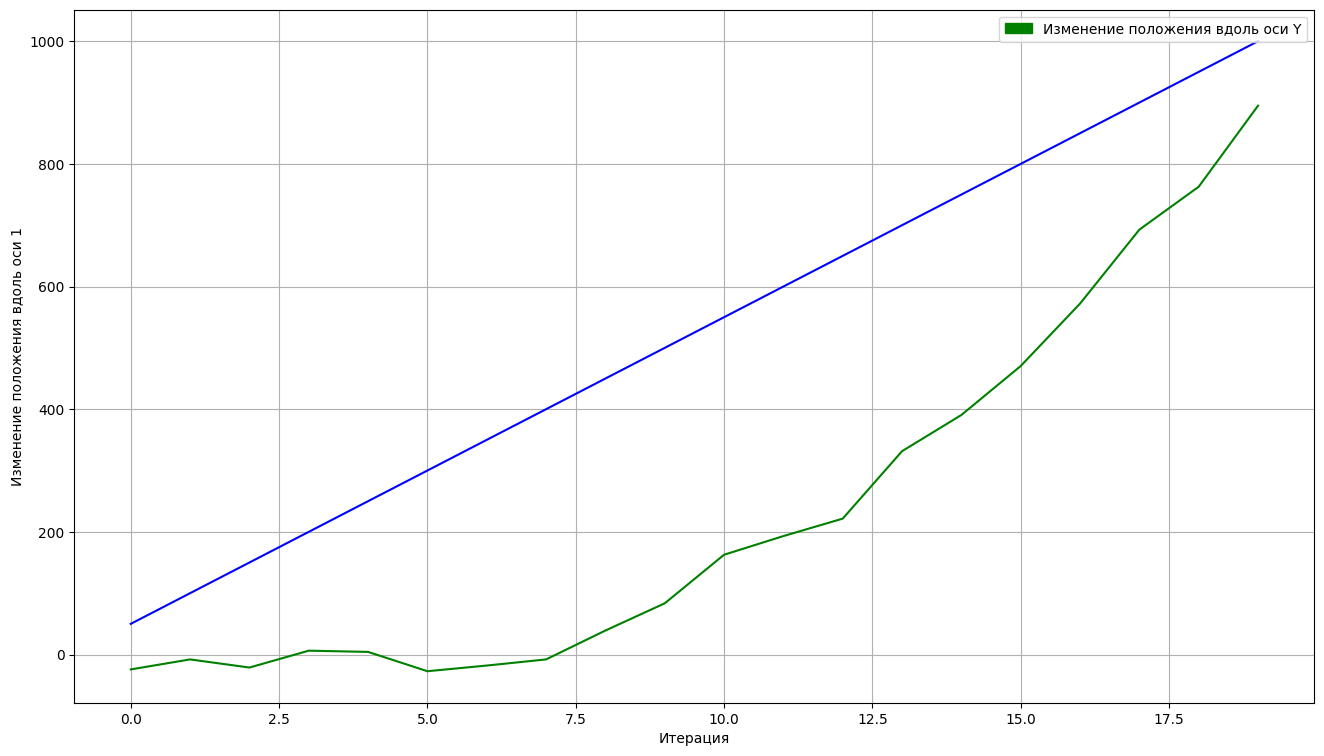
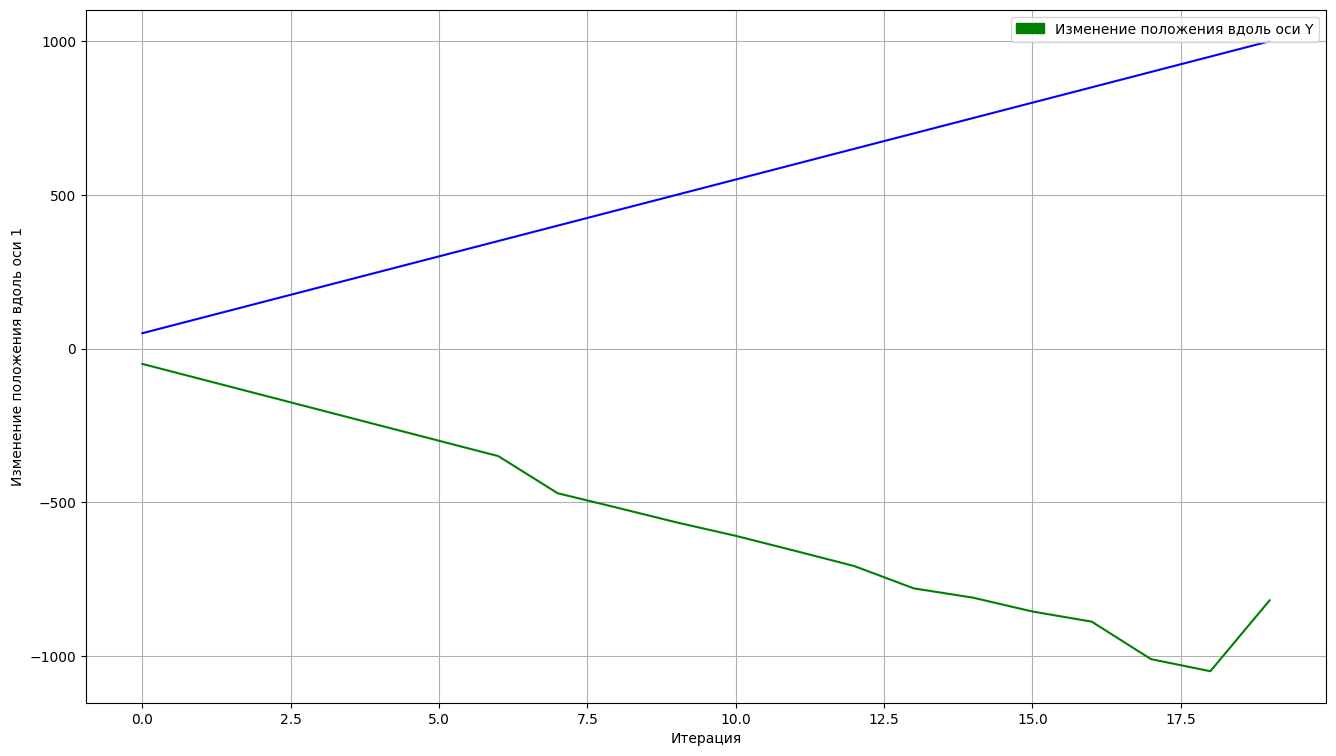
Update

diff --git a/simulation/rework_generation_visualization.py b/simulation/rework_generation_visualization.py
@@ -24,8 +24,8 @@ def get_processes_pool(iterations: int):
     return processes_to_use, multiprocessing.Pool(processes_to_use)
 
 
-def px_to_obj(keypoints: list, mask: list, position: np.ndarray, camera: Camera) -> list:
-    r = camera.R.copy()
+def px_to_obj(keypoints: list, mask: list, position: np.ndarray, camera: Camera, rotation_matrix: np.ndarray) -> list:
+    r = rotation_matrix.copy()
     u = camera.resolution[0] / 2 * camera.px_mm[0]
     v = camera.resolution[1] / 2 * camera.px_mm[1]
     kp_obj = []
@@ -123,7 +123,13 @@ def run_simulation(
     current_mask, visible_keypoints, current_kp, = calculate_keypoints_on_image(keypoints, camera)
     position = np.zeros([3, 1])
     position[2] = camera.position[2]
-    current_obj_keypoints = px_to_obj(keypoints=current_kp, mask=current_mask, position=position, camera=camera)
+    current_obj_keypoints = px_to_obj(
+        keypoints=current_kp,
+        mask=current_mask,
+        position=position,
+        camera=camera,
+        rotation_matrix=r
+    )
     total = np.zeros([2, 1])
     for _ in movement.move_camera(camera):
         mask, visible_keypoints, keypoints_px = calculate_keypoints_on_image(keypoints, camera)
@@ -143,11 +149,18 @@ def run_simulation(
             current_mask, previous_mask
         )
 
+        r = calculate_obj_rotation_matrix(
+            previous_kp=prev_img_kp,
+            current_kp=current_img_kp,
+            camera=camera,
+            rotation_matrix=r
+        )
+
         data_for_lms = prepare_data_for_lms(
             keypoints_obj=current_obj_keypoints,
-            px_keypoints=keypoints_px,
+            px_keypoints=current_kp,
             mask=mask_both_pics,
-            r=r,
+            r=np.dot(camera.ufo_r_to_camera, r),
             z=camera.position[2],
             f=camera.f,
             px_mm=camera.px_mm,
@@ -160,7 +173,13 @@ def run_simulation(
 
         position[2] = camera.position[2]
 
-        current_obj_keypoints = px_to_obj(keypoints=current_kp, mask=current_mask, position=position, camera=camera)
+        current_obj_keypoints = px_to_obj(
+            keypoints=current_kp,
+            mask=current_mask,
+            position=position,
+            camera=camera,
+            rotation_matrix=np.dot(camera.ufo_r_to_camera, r)
+        )
 
         if visualization_config['visualization_enabled']:
             img = draw_keypoints_on_img(canvas, real_kp, visualization_config)
@@ -169,13 +188,6 @@ def run_simulation(
             optical_flow = draw_optical_flow(camera_canvas, previous_mask, current_mask, previous_kp,
                                              current_kp, visualization_config)
             show_image('optical_flow', optical_flow, visualization_config)
-
-        r = calculate_obj_rotation_matrix(
-            previous_kp=prev_img_kp,
-            current_kp=current_img_kp,
-            camera=camera,
-            rotation_matrix=r
-        )
 
         real_angles.append(calculate_angles(camera.ufo.rotation_matrix))
         angles.append(calculate_angles(r))
@@ -267,7 +279,7 @@ def heights_internal_cycle(
         canvas_size = [f * 6 for f in fov]
         visualization_params['coefficients'] = [d / c for (c, d) in
                                                 zip(canvas_size, visualization_params['canvas_size'])]
-        keypoints = generate_keypoints_equal(np.array(canvas_size), x_keypoint_amount=50, y_keypoint_amount=50)
+        keypoints = generate_keypoints_equal(np.array(canvas_size), x_keypoint_amount=80, y_keypoint_amount=80)
 
         real_angles, angles, initial_position, real_positions, calculated_positions = run_simulation(
             camera=camera_to_use,

diff --git a/simulation/optical_flow_calculation.py b/simulation/optical_flow_calculation.py
@@ -46,7 +46,7 @@ def calculate_obj_rotation_matrix(
         camera: Camera,
         rotation_matrix: np.ndarray
 ):
-    E, mask = cv2.findEssentialMat(previous_kp, current_kp, camera.internal_matrix, method=cv2.LMEDS)
+    E, mask = cv2.findEssentialMat(previous_kp, current_kp, camera.internal_matrix, method=cv2.LMEDS, threshold=0.1)
     R1, R2, t = cv2.decomposeEssentialMat(E)
     tmp_rotation_matrix_1 = np.dot(R1, rotation_matrix)
     tmp_rotation_matrix_2 = np.dot(R2, rotation_matrix)
